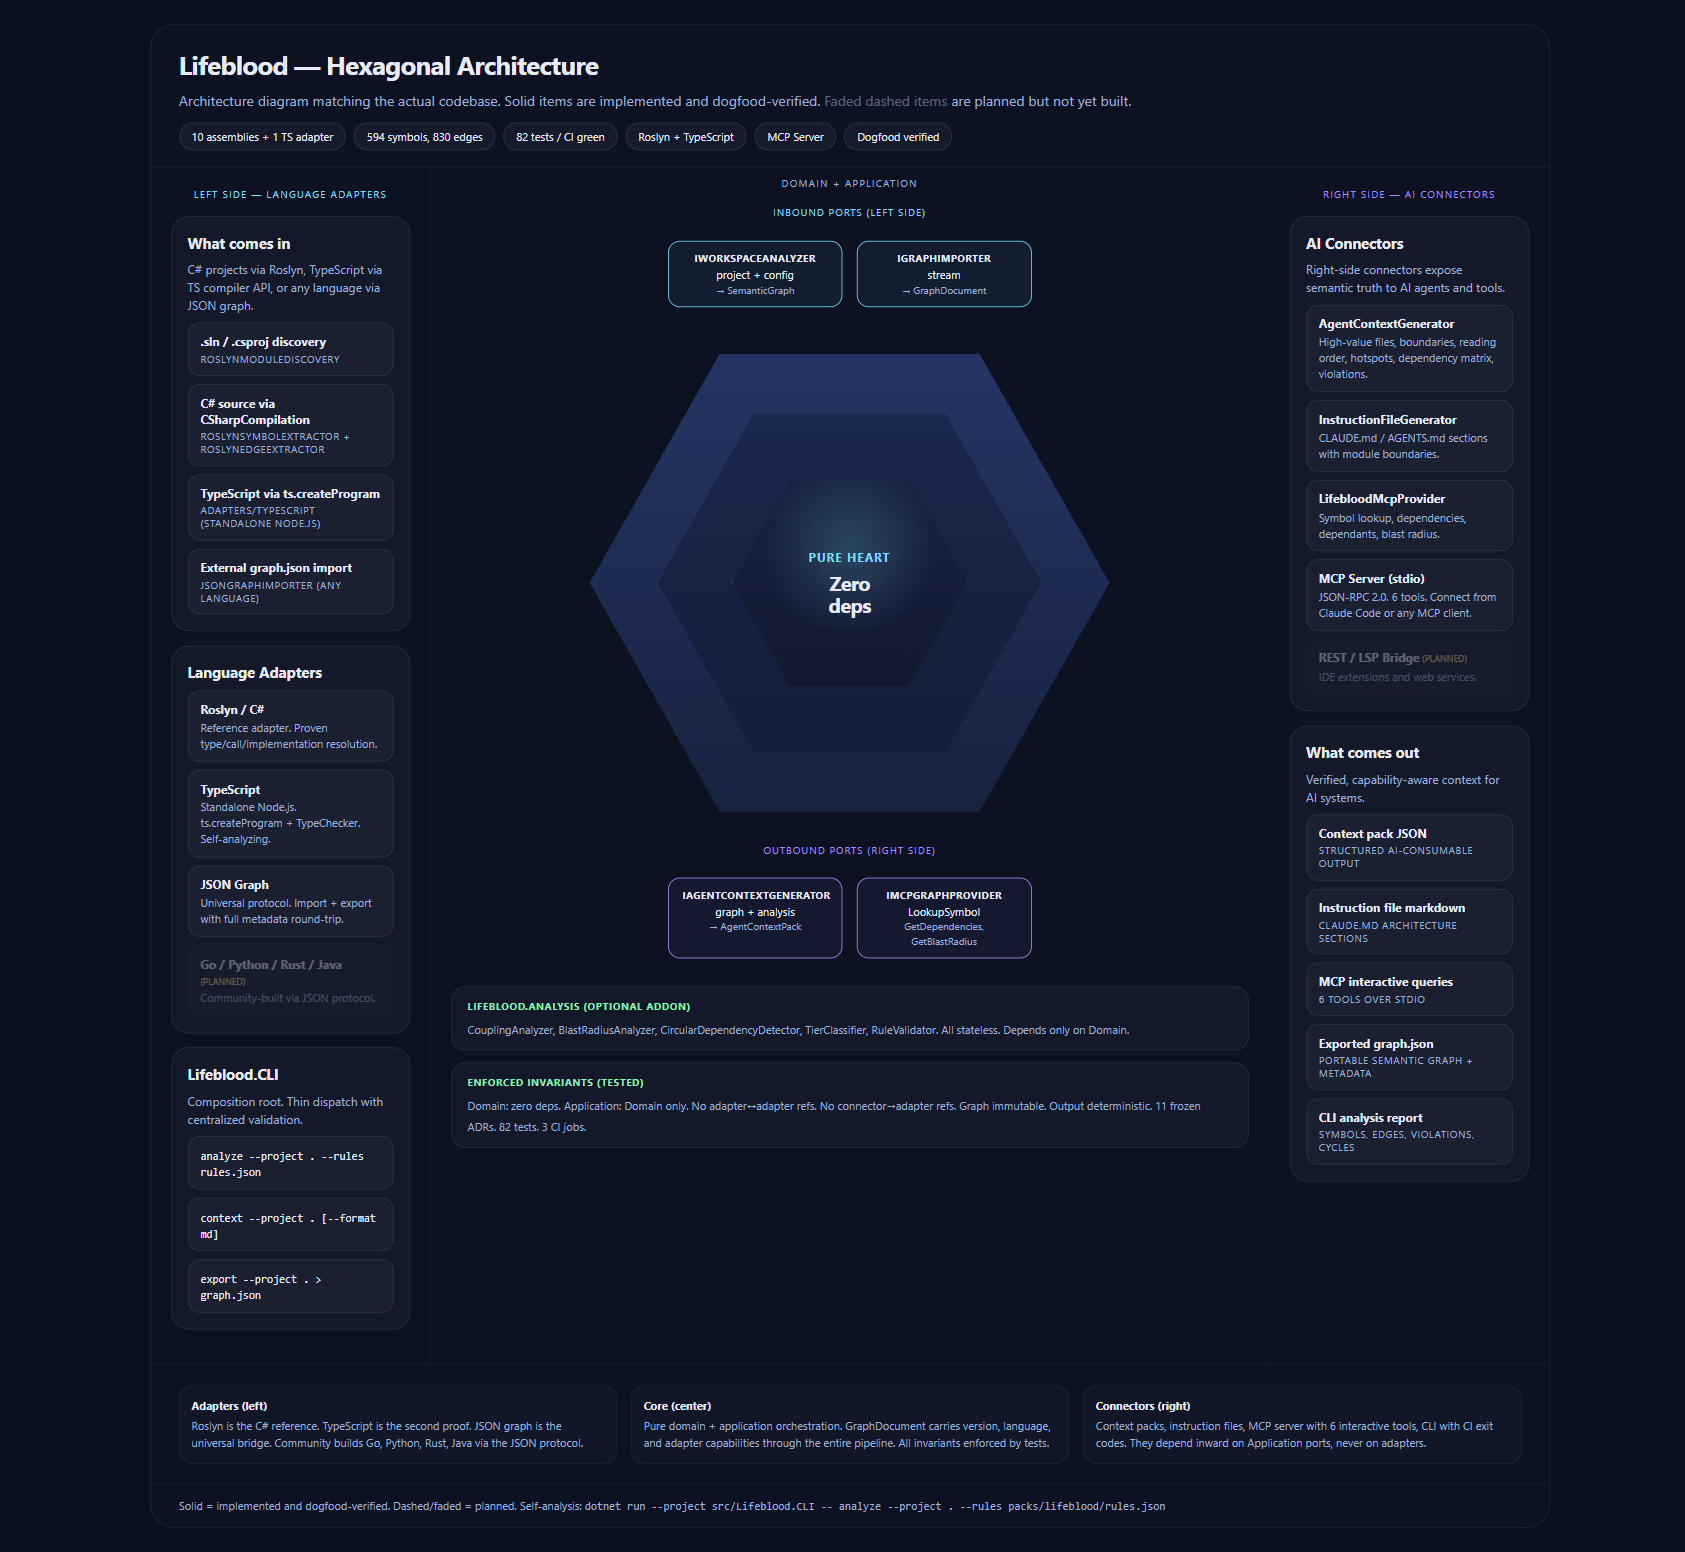
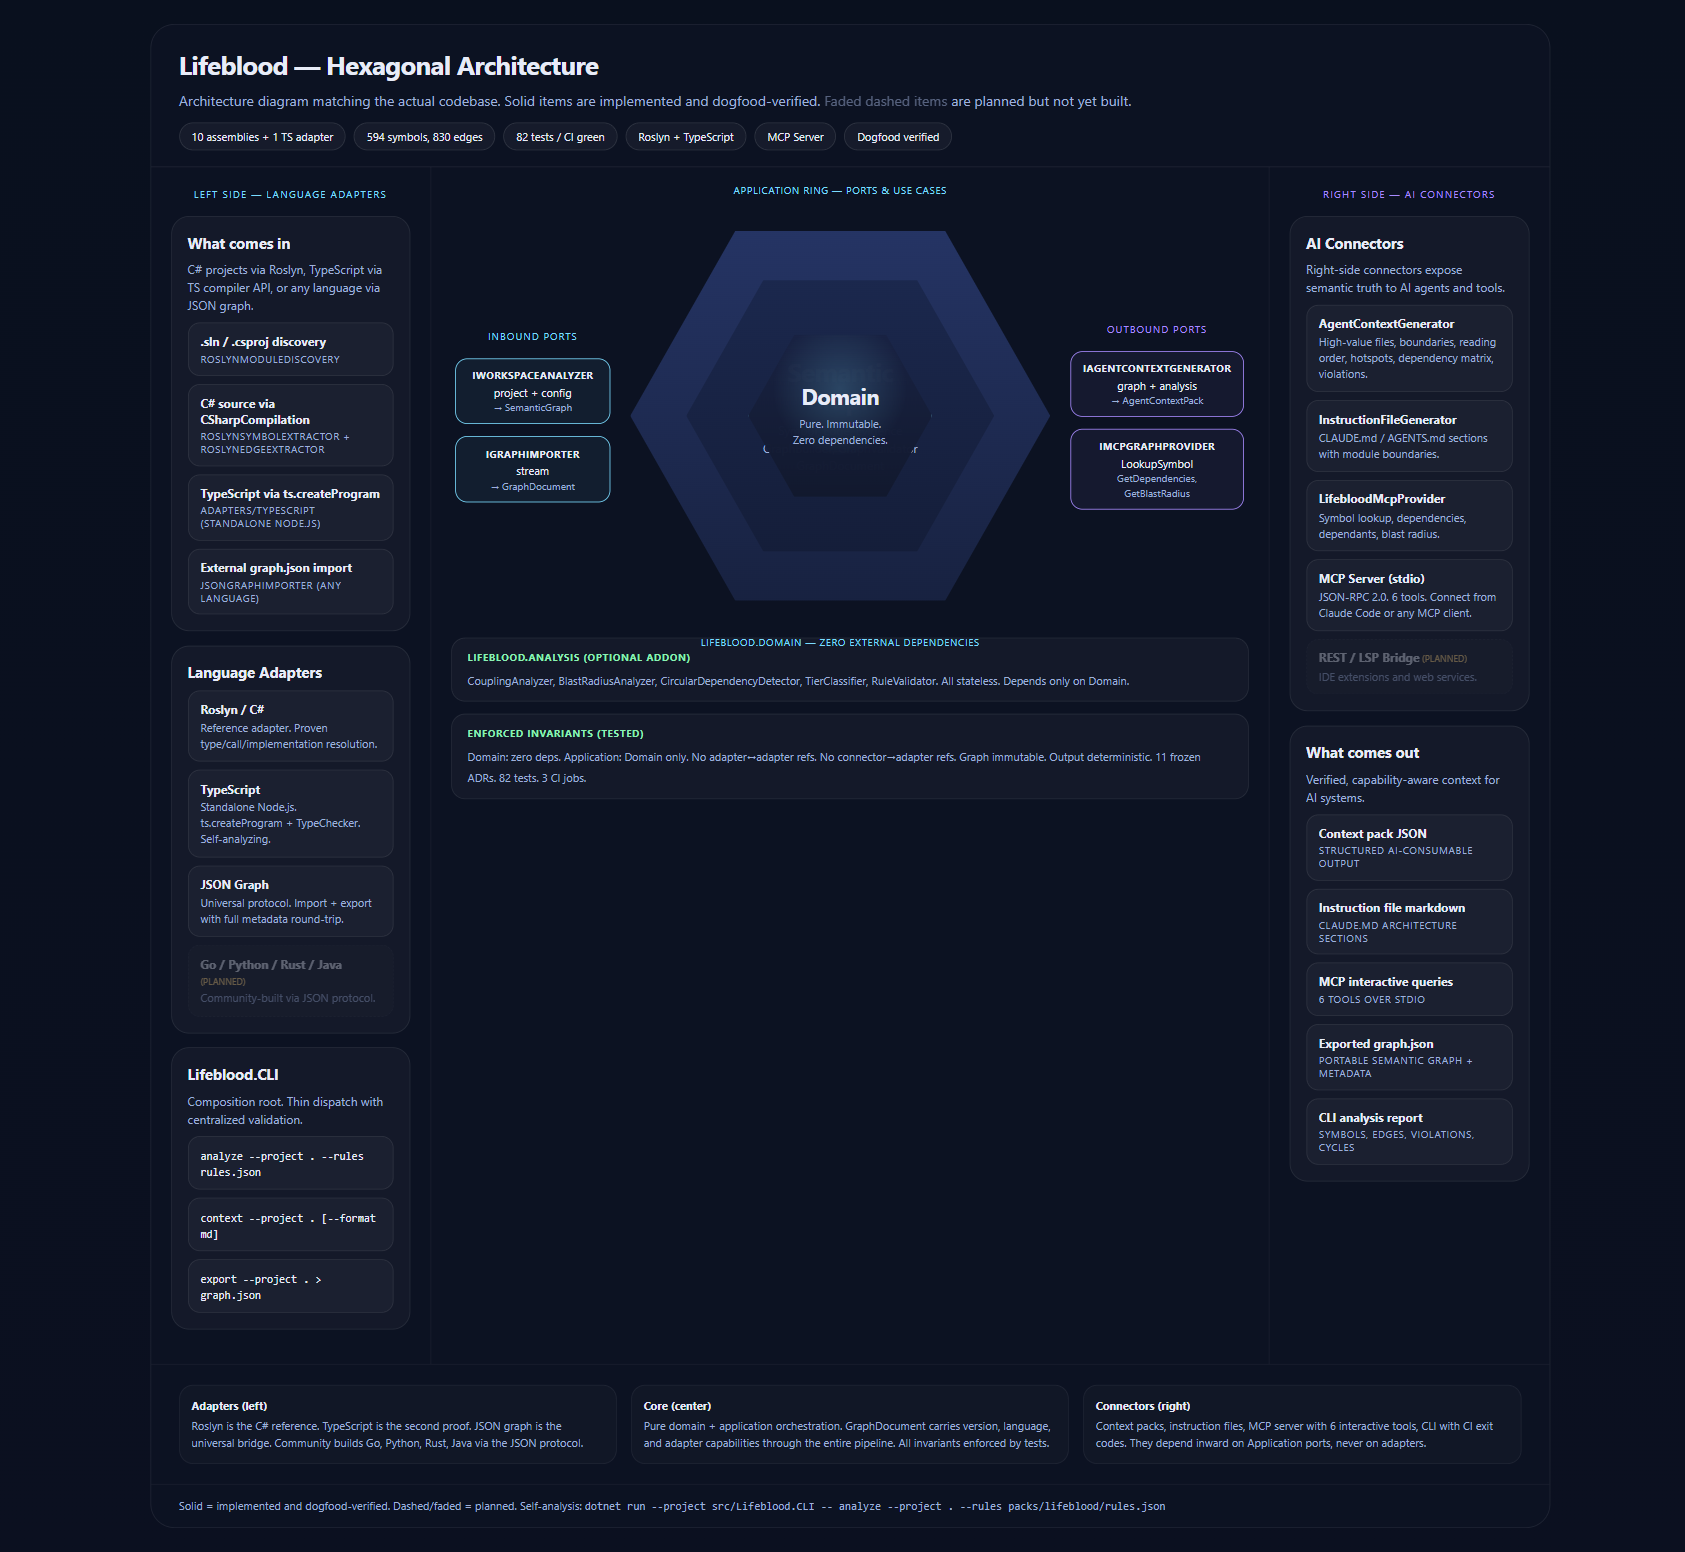
docs: architecture diagram — ports left/right, hex labels outside
Fixed layout: inbound ports on LEFT of hex, outbound ports on RIGHT.
Matches the actual data flow (left adapters → core → right connectors).

Hex ring labels positioned OUTSIDE the clip-path so they're never
clipped. "Application Ring — Ports & Use Cases" above,
"Lifeblood.Domain — Zero external dependencies" below.

Domain text bigger and readable in the middle ring.
Zero overlaps. All data current.

diff --git a/docs/architecture.html b/docs/architecture.html
@@ -79,13 +79,24 @@
       color: var(--warning); text-transform: uppercase;
     }
 
-    /* Center hex area */
+    /* Center hex area: ports LEFT — hex CENTER — ports RIGHT */
     .hex-area {
       display: flex; flex-direction: column; align-items: center;
       justify-content: flex-start; padding-top: 10px;
     }
+    .hex-row {
+      display: flex; align-items: center; justify-content: center; gap: 20px;
+      width: 100%;
+    }
+    .port-col {
+      display: flex; flex-direction: column; gap: 12px; flex: 0 0 155px;
+    }
+    .port-col-label {
+      font-size: 10px; text-transform: uppercase; letter-spacing: 0.1em;
+      text-align: center; margin-bottom: 4px;
+    }
     .hex-visual {
-      position: relative; width: 520px; height: 520px; margin: 0 auto;
+      position: relative; width: 420px; height: 420px; flex-shrink: 0;
     }
     .hex-ring {
       position: absolute;
@@ -97,33 +108,32 @@
       background: linear-gradient(180deg, rgba(39,55,106,0.95), rgba(23,33,63,0.97));
     }
     .hex-ring.middle {
-      inset: 68px;
+      inset: 56px;
       background: linear-gradient(180deg, rgba(27,40,78,0.97), rgba(20,29,56,0.98));
     }
     .hex-ring.inner {
-      inset: 142px;
+      inset: 118px;
       background: radial-gradient(circle at 50% 35%, rgba(123,220,255,0.2), transparent 45%),
         linear-gradient(180deg, rgba(25,35,68,0.99), rgba(17,24,44,0.99));
       border: 1px solid rgba(123,220,255,0.28);
     }
-    .hex-ring h4 { font-size: 12px; color: var(--accent); text-transform: uppercase; letter-spacing: 0.08em; margin-bottom: 6px; }
-    .hex-ring h2 { font-size: 24px; letter-spacing: -0.03em; line-height: 1.1; }
-    .hex-ring p { color: var(--muted); font-size: 12px; line-height: 1.45; margin-top: 8px; padding: 0 20px; }
-    .hex-ring.inner h2 { font-size: 20px; }
-    .hex-ring.inner p { font-size: 11px; padding: 0 10px; }
+    /* Ring labels: positioned OUTSIDE the clip-path so they're never clipped */
+    .hex-label {
+      position: absolute; text-align: center; font-size: 10px;
+      letter-spacing: 0.06em; text-transform: uppercase; color: var(--accent);
+      width: 100%; pointer-events: none;
+    }
+    .hex-label.top { top: -22px; }
+    .hex-label.bottom { bottom: -22px; }
+    .hex-label.mid-top { top: 40px; color: var(--muted); font-size: 9px; letter-spacing: 0.04em; }
+    .hex-ring h2 { font-size: 26px; letter-spacing: -0.03em; line-height: 1.1; margin: 0; }
+    .hex-ring p { color: var(--muted); font-size: 12px; line-height: 1.45; margin-top: 8px; padding: 0 16px; }
+    .hex-ring.inner h2 { font-size: 22px; }
+    .hex-ring.inner p { font-size: 11px; padding: 0 8px; }
 
-    .port-row {
-      display: flex; gap: 14px; justify-content: center;
-      margin: 16px 0;
-    }
-    .port-row-label {
-      text-align: center; font-size: 10px; text-transform: uppercase;
-      letter-spacing: 0.1em; color: var(--muted); margin-bottom: 6px;
-    }
     .port {
       border: 1px solid; border-radius: 12px;
-      padding: 10px 14px; text-align: center; font-size: 11px;
-      flex: 0 0 auto; width: 175px;
+      padding: 10px 12px; text-align: center; font-size: 11px;
     }
     .port.left { border-color: var(--accent); background: rgba(123,220,255,0.06); }
     .port.right { border-color: var(--accent-2); background: rgba(168,139,255,0.06); }
@@ -210,41 +220,41 @@
 
       <!-- CENTER COLUMN -->
       <div class="col hex-area" style="border-right: 1px solid rgba(255,255,255,0.05);">
-        <div class="col-label">Domain + Application</div>
+        <div class="col-label">&nbsp;</div>
 
-        <div class="port-row-label" style="color: var(--accent);">Inbound Ports (left side)</div>
-        <div class="port-row">
-          <div class="port left"><strong>IWorkspaceAnalyzer</strong>project + config<br/><span>&#8594; SemanticGraph</span></div>
-          <div class="port left"><strong>IGraphImporter</strong>stream<br/><span>&#8594; GraphDocument</span></div>
-        </div>
+        <div class="hex-row">
+          <!-- LEFT: Inbound ports -->
+          <div class="port-col">
+            <div class="port-col-label" style="color: var(--accent);">Inbound Ports</div>
+            <div class="port left"><strong>IWorkspaceAnalyzer</strong>project + config<br/><span>&#8594; SemanticGraph</span></div>
+            <div class="port left"><strong>IGraphImporter</strong>stream<br/><span>&#8594; GraphDocument</span></div>
+          </div>
 
-        <div class="hex-visual">
-          <div class="hex-ring outer">
-            <div>
-              <h4>Lifeblood.Application</h4>
-              <h2>Ports &amp;<br/>Use Cases</h2>
-              <p>Left ports, right ports, graph I/O,<br/>orchestration use cases</p>
+          <!-- CENTER: Hexagon with external labels -->
+          <div class="hex-visual">
+            <div class="hex-label top">Application Ring &mdash; Ports &amp; Use Cases</div>
+            <div class="hex-ring outer"></div>
+            <div class="hex-ring middle">
+              <div>
+                <h2>Semantic<br/>Graph</h2>
+                <p>Symbol, Edge, Evidence<br/>GraphBuilder, GraphValidator<br/>GraphDocument</p>
+              </div>
             </div>
-          </div>
-          <div class="hex-ring middle">
-            <div>
-              <h4>Lifeblood.Domain</h4>
-              <h2>Semantic<br/>Graph</h2>
-              <p>Symbol, Edge, Evidence<br/>GraphBuilder, GraphValidator<br/>Pure. Immutable. Zero deps.</p>
+            <div class="hex-ring inner">
+              <div>
+                <h2>Domain</h2>
+                <p>Pure. Immutable.<br/>Zero dependencies.</p>
+              </div>
             </div>
+            <div class="hex-label bottom">Lifeblood.Domain &mdash; Zero external dependencies</div>
           </div>
-          <div class="hex-ring inner">
-            <div>
-              <h4>Pure heart</h4>
-              <h2>Zero<br/>deps</h2>
-            </div>
-          </div>
-        </div>
 
-        <div class="port-row-label" style="color: var(--accent-2);">Outbound Ports (right side)</div>
-        <div class="port-row">
-          <div class="port right"><strong>IAgentContextGenerator</strong>graph + analysis<br/><span>&#8594; AgentContextPack</span></div>
-          <div class="port right"><strong>IMcpGraphProvider</strong>LookupSymbol<br/><span>GetDependencies, GetBlastRadius</span></div>
+          <!-- RIGHT: Outbound ports -->
+          <div class="port-col">
+            <div class="port-col-label" style="color: var(--accent-2);">Outbound Ports</div>
+            <div class="port right"><strong>IAgentContextGenerator</strong>graph + analysis<br/><span>&#8594; AgentContextPack</span></div>
+            <div class="port right"><strong>IMcpGraphProvider</strong>LookupSymbol<br/><span>GetDependencies, GetBlastRadius</span></div>
+          </div>
         </div>
 
         <div class="signal-card">
